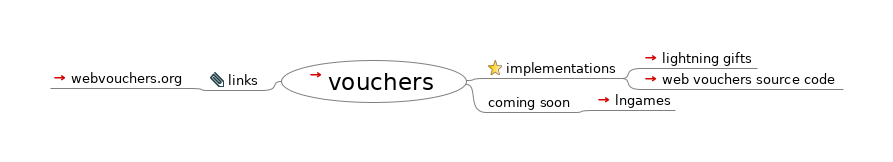
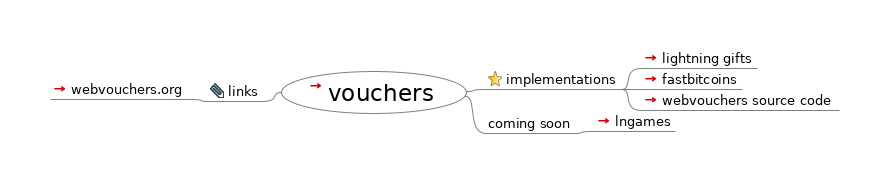
add fastbitcoins

Changed region(s): [[0.5163, 0.2778, 0.9415, 0.7407], [0.0607, 0.3704, 0.5163, 0.6481]]

diff --git a/dev/vouchers.html b/dev/vouchers.html
@@ -23,15 +23,16 @@
                    };
                };
           
-          --></script></head><body><h1>vouchers</h1><div style="width:96%;  padding:2%;  margin-bottom:10px;  border: 0px;  text-align:center;  vertical-align:center;"><img src="vouchers.html_files/image.png" style="margin-bottom:10px; &#9;border: 0px; &#9;text-align:center; &#9;vertical-align:center;" alt="Imagemap" usemap="#fm_imagemap" /></div><map name="fm_imagemap" id="fm_imagemap"><area shape="rect" href="index.html" alt="vouchers" title="vouchers" coords="281,60,467,103" />
-<area shape="rect" href="#FMID_1143974934FM" alt="implementations" title="implementations" coords="486,60,622,78" />
+          --></script></head><body><h1>vouchers</h1><div style="width:96%;  padding:2%;  margin-bottom:10px;  border: 0px;  text-align:center;  vertical-align:center;"><img src="vouchers.html_files/image.png" style="margin-bottom:10px; &#9;border: 0px; &#9;text-align:center; &#9;vertical-align:center;" alt="Imagemap" usemap="#fm_imagemap" /></div><map name="fm_imagemap" id="fm_imagemap"><area shape="rect" href="index.html" alt="vouchers" title="vouchers" coords="281,71,467,114" />
+<area shape="rect" href="#FMID_1143974934FM" alt="implementations" title="implementations" coords="486,71,622,89" />
 <area shape="rect" href="https://lightning.gifts/" alt="lightning gifts" title="lightning gifts" coords="641,50,757,68" />
-<area shape="rect" href="https://github.com/solidpayorg/webvouchers/blob/gh-pages/bin/lightning.js" alt="web vouchers source code" title="web vouchers source code" coords="641,71,843,89" />
-<area shape="rect" href="#FMID_1029049124FM" alt="coming soon" title="coming soon" coords="486,94,575,112" />
-<area shape="rect" href="https://twitter.com/lngames_net/status/1190393843881041920?s=17" alt="lngames" title="lngames" coords="594,92,675,110" />
-<area shape="rect" href="#FMID_1091889470FM" alt="links" title="links" coords="208,72,262,90" />
-<area shape="rect" href="https://webvouchers.org/" alt="webvouchers.org" title="webvouchers.org" coords="50,70,189,88" />
+<area shape="rect" href="https://fastbitcoins.com/" alt="fastbitcoins" title="fastbitcoins" coords="641,71,742,89" />
+<area shape="rect" href="https://github.com/solidpayorg/webvouchers/blob/gh-pages/bin/lightning.js" alt="webvouchers source code" title="webvouchers source code" coords="641,92,839,110" />
+<area shape="rect" href="#FMID_1029049124FM" alt="coming soon" title="coming soon" coords="486,115,575,133" />
+<area shape="rect" href="https://twitter.com/lngames_net/status/1190393843881041920?s=17" alt="lngames" title="lngames" coords="594,113,675,131" />
+<area shape="rect" href="#FMID_1091889470FM" alt="links" title="links" coords="208,83,262,101" />
+<area shape="rect" href="https://webvouchers.org/" alt="webvouchers.org" title="webvouchers.org" coords="50,81,189,99" />
 </map>
 
-<div class="node"><img src="vouchers.html_files/hide.png" class="hideshow" alt="hide" onClick="toggle(&quot;N65543&quot;)" id="imgN65543" /><a id="FMID_44737290FM" /><div class="nodecontent" style="color:#000000;font-size:150%;"><a href="index.html">vouchers</a> <a href="index.html"><img src="vouchers.html_files/ilink.png" alt="User Link" style="border-width:0" /></a></div><div class="content" id="N65543"><div class="node"><img src="vouchers.html_files/hide.png" class="hideshow" alt="hide" onClick="toggle(&quot;N66435&quot;)" id="imgN66435" /><img src="vouchers.html_files/icons/bookmark.svg" alt="bookmark" /> <a id="FMID_1143974934FM" /><div class="nodecontent" style="color:#000000;font-size:83%;">implementations</div><div class="content" id="N66435"><div class="node"><img src="vouchers.html_files/leaf.png" class="hideshow" alt="leaf" /><a id="FMID_1798463538FM" /><div class="nodecontent" style="color:#000000;font-size:83%;"><a href="https://lightning.gifts/">lightning gifts</a> <a href="https://lightning.gifts/"><img src="vouchers.html_files/ilink.png" alt="User Link" style="border-width:0" /></a></div></div><div class="node"><img src="vouchers.html_files/leaf.png" class="hideshow" alt="leaf" /><a id="FMID_530694162FM" /><div class="nodecontent" style="color:#000000;font-size:83%;"><a href="https://github.com/solidpayorg/webvouchers/blob/gh-pages/bin/lightning.js">web vouchers source code</a> <a href="https://github.com/solidpayorg/webvouchers/blob/gh-pages/bin/lightning.js"><img src="vouchers.html_files/ilink.png" alt="User Link" style="border-width:0" /></a></div></div></div></div><div class="node"><img src="vouchers.html_files/hide.png" class="hideshow" alt="hide" onClick="toggle(&quot;N66551&quot;)" id="imgN66551" /><a id="FMID_1029049124FM" /><div class="nodecontent" style="color:#000000;font-size:83%;">coming soon</div><div class="content" id="N66551"><div class="node"><img src="vouchers.html_files/leaf.png" class="hideshow" alt="leaf" /><a id="FMID_1651596806FM" /><div class="nodecontent" style="color:#000000;font-size:83%;"><a href="https://twitter.com/lngames_net/status/1190393843881041920?s=17">lngames</a> <a href="https://twitter.com/lngames_net/status/1190393843881041920?s=17"><img src="vouchers.html_files/ilink.png" alt="User Link" style="border-width:0" /></a></div></div></div></div><div class="node"><img src="vouchers.html_files/hide.png" class="hideshow" alt="hide" onClick="toggle(&quot;N66625&quot;)" id="imgN66625" /><img src="vouchers.html_files/icons/attach.svg" alt="attach" /> <a id="FMID_1091889470FM" /><div class="nodecontent" style="color:#000000;font-size:83%;">links</div><div class="content" id="N66625"><div class="node"><img src="vouchers.html_files/leaf.png" class="hideshow" alt="leaf" /><a id="FMID_255085710FM" /><div class="nodecontent" style="color:#000000;font-size:83%;"><a href="https://webvouchers.org/">webvouchers.org</a> <a href="https://webvouchers.org/"><img src="vouchers.html_files/ilink.png" alt="User Link" style="border-width:0" /></a></div></div></div></div></div></div>
+<div class="node"><img src="vouchers.html_files/hide.png" class="hideshow" alt="hide" onClick="toggle(&quot;N65543&quot;)" id="imgN65543" /><a id="FMID_44737290FM" /><div class="nodecontent" style="color:#000000;font-size:150%;"><a href="index.html">vouchers</a> <a href="index.html"><img src="vouchers.html_files/ilink.png" alt="User Link" style="border-width:0" /></a></div><div class="content" id="N65543"><div class="node"><img src="vouchers.html_files/hide.png" class="hideshow" alt="hide" onClick="toggle(&quot;N66435&quot;)" id="imgN66435" /><img src="vouchers.html_files/icons/bookmark.svg" alt="bookmark" /> <a id="FMID_1143974934FM" /><div class="nodecontent" style="color:#000000;font-size:83%;">implementations</div><div class="content" id="N66435"><div class="node"><img src="vouchers.html_files/leaf.png" class="hideshow" alt="leaf" /><a id="FMID_1798463538FM" /><div class="nodecontent" style="color:#000000;font-size:83%;"><a href="https://lightning.gifts/">lightning gifts</a> <a href="https://lightning.gifts/"><img src="vouchers.html_files/ilink.png" alt="User Link" style="border-width:0" /></a></div></div><div class="node"><img src="vouchers.html_files/leaf.png" class="hideshow" alt="leaf" /><a id="FMID_1647714766FM" /><div class="nodecontent" style="color:#000000;font-size:83%;"><a href="https://fastbitcoins.com/">fastbitcoins</a> <a href="https://fastbitcoins.com/"><img src="vouchers.html_files/ilink.png" alt="User Link" style="border-width:0" /></a></div></div><div class="node"><img src="vouchers.html_files/leaf.png" class="hideshow" alt="leaf" /><a id="FMID_530694162FM" /><div class="nodecontent" style="color:#000000;font-size:83%;"><a href="https://github.com/solidpayorg/webvouchers/blob/gh-pages/bin/lightning.js">webvouchers source code</a> <a href="https://github.com/solidpayorg/webvouchers/blob/gh-pages/bin/lightning.js"><img src="vouchers.html_files/ilink.png" alt="User Link" style="border-width:0" /></a></div></div></div></div><div class="node"><img src="vouchers.html_files/hide.png" class="hideshow" alt="hide" onClick="toggle(&quot;N66588&quot;)" id="imgN66588" /><a id="FMID_1029049124FM" /><div class="nodecontent" style="color:#000000;font-size:83%;">coming soon</div><div class="content" id="N66588"><div class="node"><img src="vouchers.html_files/leaf.png" class="hideshow" alt="leaf" /><a id="FMID_1651596806FM" /><div class="nodecontent" style="color:#000000;font-size:83%;"><a href="https://twitter.com/lngames_net/status/1190393843881041920?s=17">lngames</a> <a href="https://twitter.com/lngames_net/status/1190393843881041920?s=17"><img src="vouchers.html_files/ilink.png" alt="User Link" style="border-width:0" /></a></div></div></div></div><div class="node"><img src="vouchers.html_files/hide.png" class="hideshow" alt="hide" onClick="toggle(&quot;N66662&quot;)" id="imgN66662" /><img src="vouchers.html_files/icons/attach.svg" alt="attach" /> <a id="FMID_1091889470FM" /><div class="nodecontent" style="color:#000000;font-size:83%;">links</div><div class="content" id="N66662"><div class="node"><img src="vouchers.html_files/leaf.png" class="hideshow" alt="leaf" /><a id="FMID_255085710FM" /><div class="nodecontent" style="color:#000000;font-size:83%;"><a href="https://webvouchers.org/">webvouchers.org</a> <a href="https://webvouchers.org/"><img src="vouchers.html_files/ilink.png" alt="User Link" style="border-width:0" /></a></div></div></div></div></div></div>
 </body></html>

diff --git a/dev/vouchers.mm b/dev/vouchers.mm
@@ -66,7 +66,8 @@
 <node TEXT="implementations" POSITION="right" ID="ID_1143974934" CREATED="1572863277958" MODIFIED="1572863386720">
 <icon BUILTIN="bookmark"/>
 <node TEXT="lightning gifts" ID="ID_1798463538" CREATED="1572863480862" MODIFIED="1572863487196" LINK="https://lightning.gifts/"/>
-<node TEXT="web vouchers source code" ID="ID_530694162" CREATED="1572864818535" MODIFIED="1572864824451" LINK="https://github.com/solidpayorg/webvouchers/blob/gh-pages/bin/lightning.js"/>
+<node TEXT="fastbitcoins" ID="ID_1647714766" CREATED="1572866027952" MODIFIED="1572866039502" LINK="https://fastbitcoins.com/"/>
+<node TEXT="webvouchers source code" ID="ID_530694162" CREATED="1572864818535" MODIFIED="1572866053160" LINK="https://github.com/solidpayorg/webvouchers/blob/gh-pages/bin/lightning.js"/>
 </node>
 <node TEXT="coming soon" POSITION="right" ID="ID_1029049124" CREATED="1572864541700" MODIFIED="1572864543785">
 <node TEXT="lngames" ID="ID_1651596806" CREATED="1572864580441" MODIFIED="1572864586019" LINK="https://twitter.com/lngames_net/status/1190393843881041920?s=17"/>
